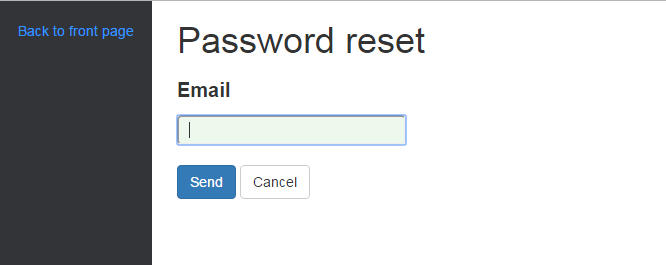
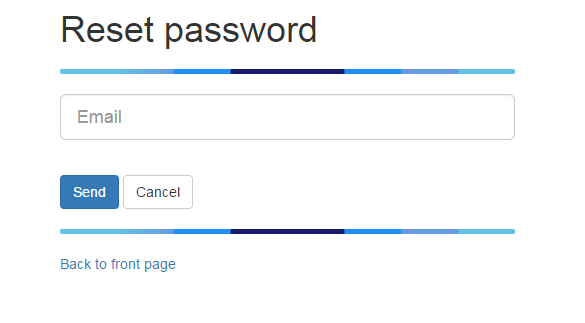
Updated the user registration instructions

diff --git a/md/documentation/features/usermanagement.md b/md/documentation/features/usermanagement.md
@@ -5,45 +5,158 @@ Users in Oskari are described with a few attributes listed below:
 ![User table](/images/backend/userUML.png)
 ![Role table](/images/backend/roleUML.png)
 
-The datasource for users can be configured to read and manage users using JSON, SAML etc, but default to the core database for Oskari.
-Permissions for resources are mapped using roles and user-specific content uses the UUID to identify the user.
+The datasource for users can be configured to read and manage users using JSON, SAML etc, but default to the core database for Oskari. The Java-interface for managing users is `fi.nls.oskari.service.UserService` under the service-base Maven module with `fi.nls.oskari.user.DatabaseUserService` under service-users Maven module as the reference implementation.
 
-TODO: database tables and description/use cases for UserService implementations.
+Permissions for resources are mapped using roles and user-specific content uses the UUID to link the content with the user.
+
+TODO: description/use cases for UserService implementations.
 
 ## User registration
 
-A simple user registration form has been added to Oskari 1.39 version that needs to be activated by configuration (see details below).
-This results in a "register" link being added under the login form on the map-page. The current register pages are very simple with alert notifications, but can be customized.
+Oskari includes a simple user registration functionality that needs to be activated
+ by configuration (see details below). This results in a "register" link being
+  shown under the login form on the default geoportal-page and also enables the
+  registration backend to accept requests.
+
+The registration pages can be customized like any other JSP-file in Oskari and
+ the emails sent by Oskari can also be customized.
+
+### Registration form
+
+ The first step of registration is just asking for the users email. This will always
+ respond by saying an email has been sent to the address. The only error it will
+ show if the email is not valid or if the server can detect that the mail was not sent.
 
 ![Registration form](/images/backend/user.register.png)
 
-After filling in the register form the user will receive a mail with a link to complete the registration:
+The mail the user receives has two options:
+- if the email is already registered to an existing user - a message with password reminder link is sent.
+- if the email is new the user receives a message with a link that can be used to access a form for user details.
 
-![Mail to set password](/images/backend/user.register.mail.png)
+### Completing the user profile
 
-Which leads to a page for setting a password:
+Once the user clicks on the email link the token included in the link is validated.
+If the link token has expired or is unknown the first step of registration is
+ shown with a message about expired link. The user can start the registration from the beginning.
+
+ On most cases the user is presented with a form to complete the registration:
+
+![Complete user profile](/images/backend/user.register.new.user.png)
+
+As usernames are used to link the user password to user details it needs to be unique.
+This is checked while the user is filling the form. The password strength requirements
+are based on the server configuration. They can be customized by configuration.
+
+After the user has completed the profile the user can log in to the geoportal.
+
+### Password reset
+
+Users can request a link for setting a new password for the account:
+
+![Request reset](/images/backend/user.register.forgotpw.png)
+
+For logged in users the email is pre-filled. For guest users the mail the user
+receives has two options:
+- if the email is new the user receives a message saying that there is no account for the email and a link to the registration page.
+- if the email is already registered to an existing user - a link to set the password is sent:
 
 ![Password change](/images/backend/user.register.changepw.png)
 
-After registration the user can request a password reset ("forgot password" feature):
-![Request reset](/images/backend/user.register.forgotpw.png)
+### Modify user details
 
-Or modify the user information:
+Currently only the name can be changed as changing the email would require a
+mail to be sent to check the email and usernames are problematic since they are
+used to map passwords to users.
 
 ![Modify user](/images/backend/user.register.modify.png)
 
-User registration for Oskari can be enabled by modifying oskari-ext.properties:
+### Configuration options
+
+User registration for Oskari can be enabled by modifying `oskari-ext.properties`:
 
     allow.registration=true
     oskari.email.sender=<sender@domain.com>
     oskari.email.host=<smtp.domain.com>
 
-If you are running an oskari-server-extension you need to also add the dependency for the code:
+The password requirement can be configured with:
 
-    <groupId>fi.nls.oskari.service</groupId>
-    <artifactId>oskari-control-users</artifactId>
+    # min length for user password
+    user.passwd.length=8
+    # Require lower and UPPER chars
+    user.passwd.case=true
+    # Number of days that registration/passwd recover links are valid
+    oskari.email.link.expirytime=2
+
+If you are running an `oskari-server-extension` you need to also add the dependency for the code:
+
+    <dependency>
+        <groupId>fi.nls.oskari.service</groupId>
+        <artifactId>oskari-control-users</artifactId>
+        <version>${oskari.version}</version>
+    </dependency>
 
 The functionality is mostly contained under [oskari-server/control-users](https://github.com/oskariorg/oskari-server/tree/develop/control-users) with JSPs that can be overridden
-in oskari-server-extensions using the same filename as the original. There are also localizations for the user registration that can be overridden with [locale/messages-ext.properties](https://github.com/oskariorg/oskari-server/blob/develop/servlet-map/src/main/resources/locale/messages.properties) files in the server classpath.
+in `oskari-server-extensions` using the same filename as the original. There are also localizations for the user registration that can be overridden with [locale/messages-ext.properties](https://github.com/oskariorg/oskari-server/blob/develop/servlet-map/src/main/resources/locale/messages.properties) files in the server classpath (like `jetty/resources/locale/messages-ext.properties`).
+
+To customize email-templates configure `oskari-ext.properties` (add files in classpath for example under `jetty/resources/templates`):
+
+    # defaults
+    # on registration init
+    oskari.email.registration.tpl=/templates/registration_email.html
+    # on registration init if there's already a user account with the email
+    oskari.email.exists.tpl=/templates/registration_email_exists.html
+    # on "forgot my password"
+    oskari.email.passwordrecovery.tpl=/templates/user_passwordreset_email.html
+    # on "forgot my password" when there's no user account associated with the email
+    oskari.email.passwordrecovery.noaccount.tpl=/templates/user_passwordreset_email_new_user.html
+
+    # you can specify localized versions by adding the language code at the end of the property key
+    oskari.email.registration.tpl.fi=/templates/registration_email_finnish_version.html
+
+The default templates are stored in `control-users/src/main/resources/fi/nls/oskari/control/users/service`.
+ The templates receive variables for:
+
+- URL to continue the process (`link_to_continue`)
+- number of days before the token expires (`days_to_expire`)
+
+Tokens with expiration dates are tracked in the `oskari_users_pending` database table.
+If an email has an existing token it will be replaced with a new one with
+ new expiration date so one email can only have one token at a time. This means
+ that for example registration links will automatically expire if the user uses
+ the password reminder.
+
 
 Note! User registration has been tested/implemented only for the case where users are in the Oskari database. Not for SAML logins etc.
+
+## Known issues
+
+If you have problems having the mail sent first try to send a mail fron the server
+with telnet:
+
+    telnet [mail server] [port]
+    MAIL FROM: noreply@mysite.org
+    RCPT TO: someuser@somedomain.com
+
+From terminal it might look like this:
+
+    [user@server ~]$ telnet [mail server] 25
+    Trying [mail server]...
+    Connected to [mail server].
+    Escape character is '^]'.
+    220 [mail server] ESMTP Postfix (Ubuntu)
+    MAIL FROM: noreply@mysite.org
+    250 2.1.0 Ok
+    RCPT TO: someuser@somedomain.com
+    454 4.7.1 <someuser@somedomain.com>: Relay access denied
+
+In this case the mail server doesn't allow mails to be sent to the recipient and
+there's nothing you can do but ask the hosting party to loosen the restrictions.
+The good news is that the connection to the server was successful so there's no
+ firewall blocking the connection.
+
+If everything is good to go with the mail server and you still have problems sending mails
+you should check the Oskari logs for more information about the issue.
+
+On one instance adding a javax.mail implementation manually was required,
+but it should be included in the Jetty-bundle. If this is the case you can add the
+ jar-file to jetty/lib/ext folder (http://mvnrepository.com/artifact/com.sun.mail/javax.mail/1.5.4).
